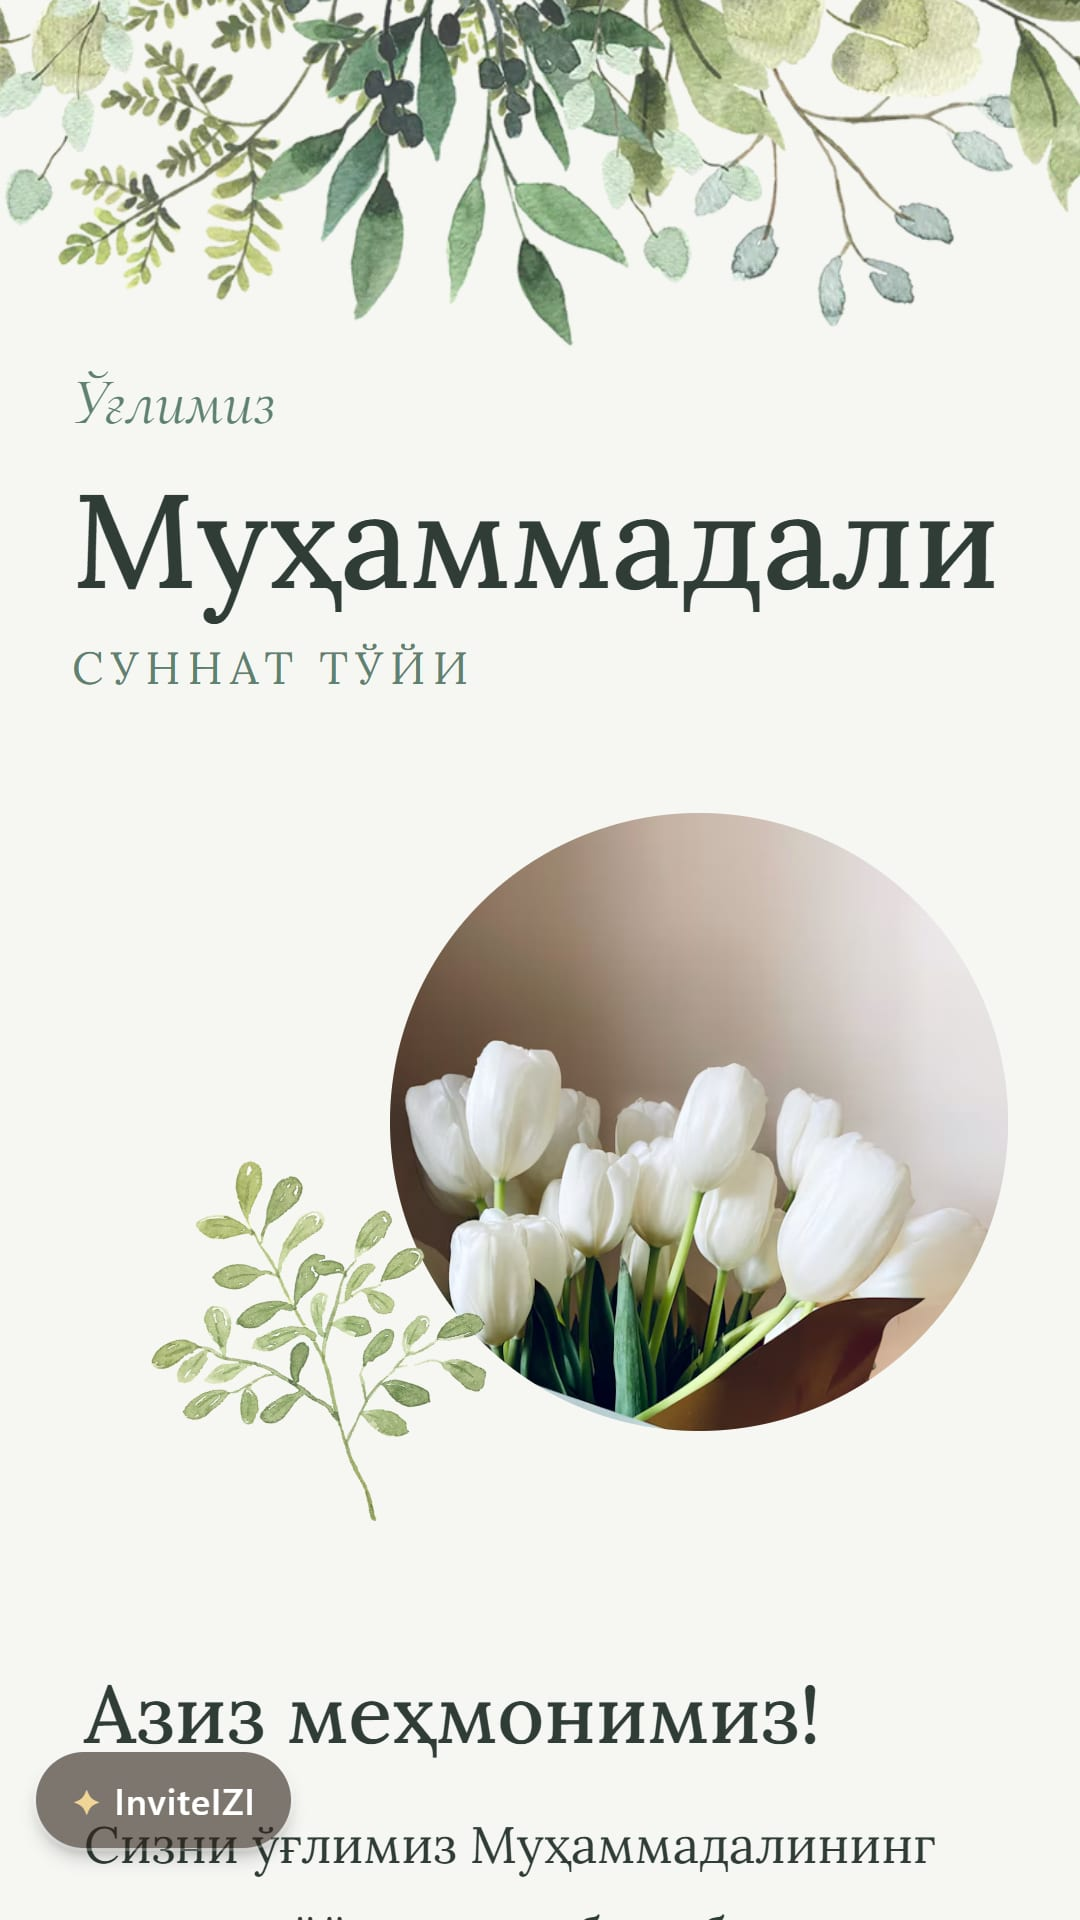
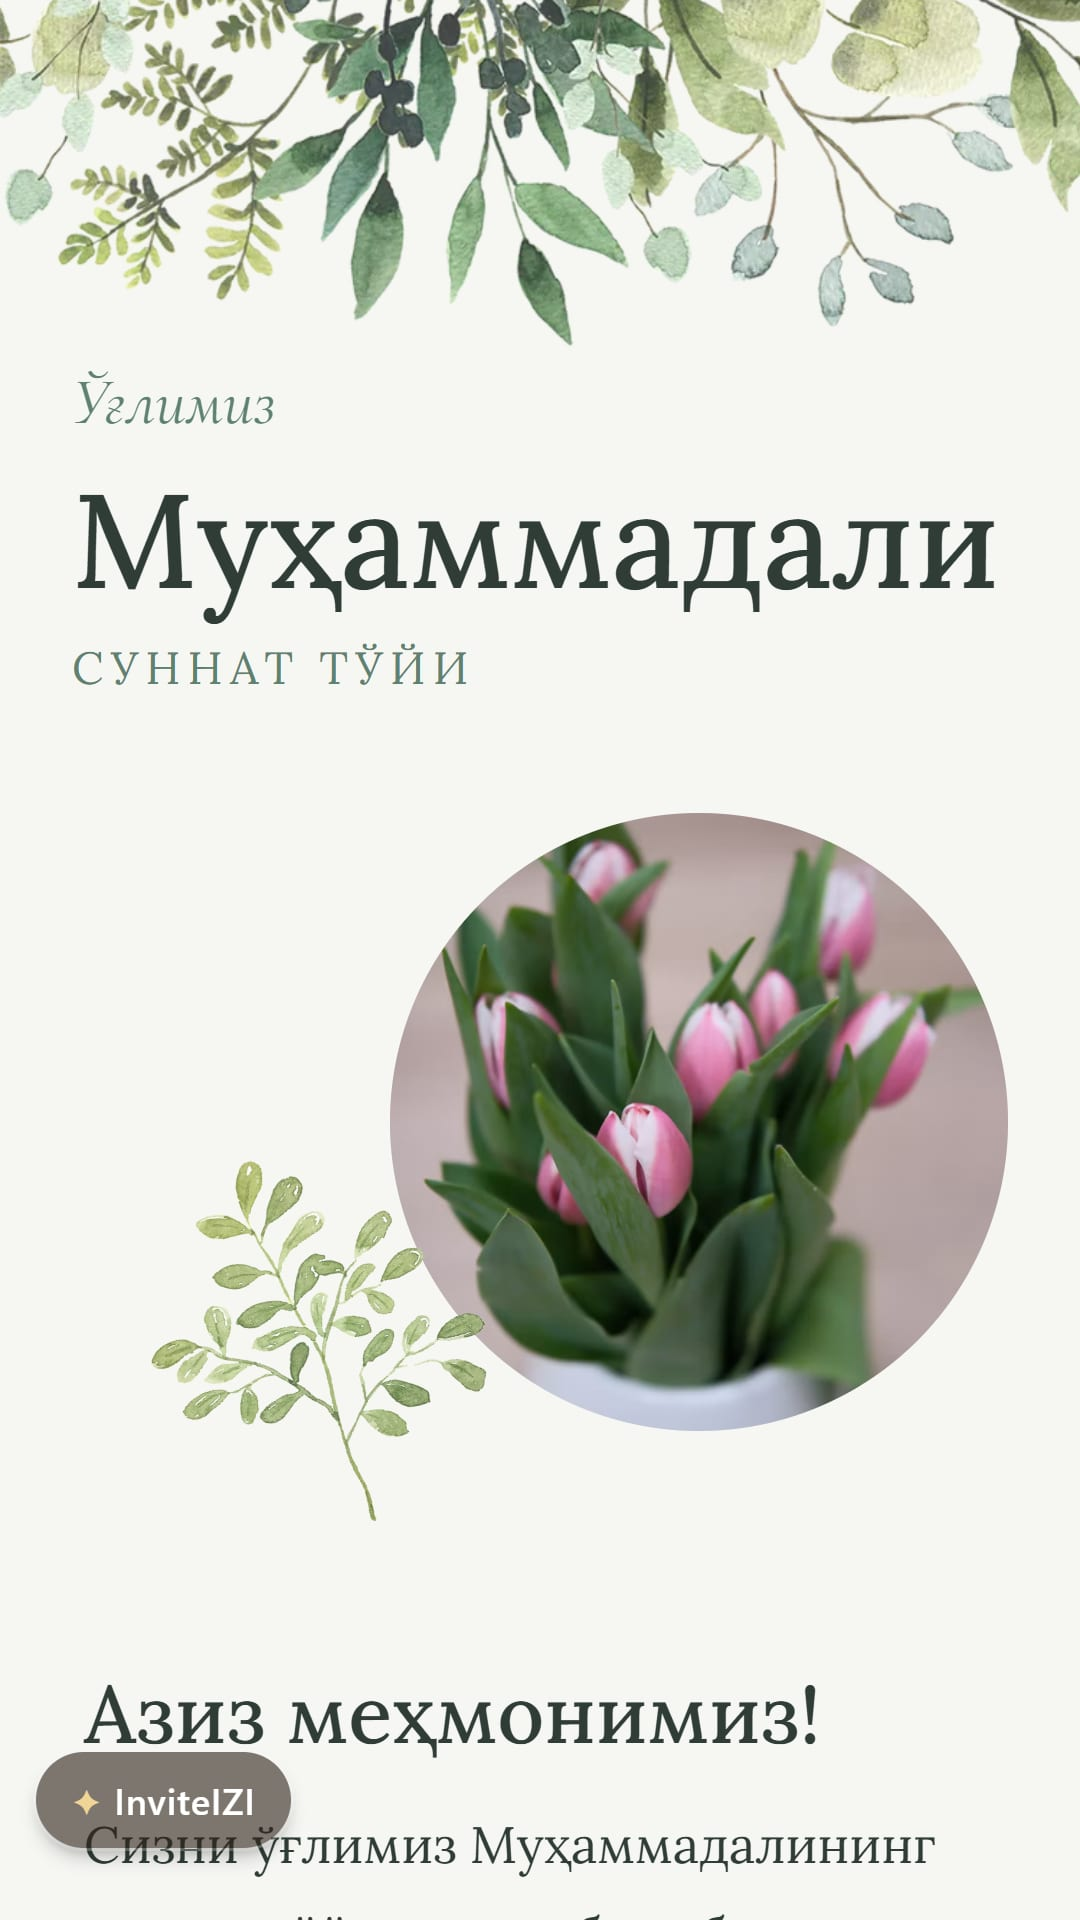
Фаза 4: ревью критика и правки пилотов, скриншоты в docs/reviews/natural-pilots

Changed region(s): [[0.3361, 0.4062, 0.9472, 0.75]]

diff --git a/templates/themes/ipak/Design.tsx b/templates/themes/ipak/Design.tsx
@@ -53,9 +53,9 @@ export default function Ipak({ data, mode }: TemplateProps) {
     { kind: "unsplash", slot: "ipak-bouquet", w: 520, h: 650 },
     { kind: "unsplash", slot: "ipak-hands", w: 400, h: 400 },
   ]);
-  const candles = stock({
+  const silk = stock({
     kind: "unsplash",
-    slot: "ipak-candles",
+    slot: "ipak-silk",
     w: 860,
     h: 640,
   });
@@ -84,7 +84,7 @@ export default function Ipak({ data, mode }: TemplateProps) {
         radius: "22px",
       }}
       credits={[
-        ...creditsOf([...photos, candles]),
+        ...creditsOf([...photos, silk]),
         localCredit("ipak-silk-video"),
       ]}
       creditClassName="text-[#3b322b]/60"
@@ -115,9 +115,11 @@ export default function Ipak({ data, mode }: TemplateProps) {
           <span ref={groom} className={s.nameLine}>
             <Words text={data.groom ?? ""} />
           </span>
-          <Script text={t.natural.and} className={s.and} />
-          <span ref={bride} className={`${s.nameLine} ${s.nameRight}`}>
-            <Words text={data.bride ?? ""} />
+          <span className={s.brideRow}>
+            <Script text={t.natural.and} className={s.and} />
+            <span ref={bride} className={s.nameLine}>
+              <Words text={data.bride ?? ""} />
+            </span>
           </span>
         </h1>
         <p className={s.occasion}>{t.occasionTitles[inv.occasion]}</p>
@@ -171,20 +173,13 @@ export default function Ipak({ data, mode }: TemplateProps) {
             <p className={s.eventTime}>{t.date.clock(e.time)}</p>
             <div className={s.eventText}>
               <h3>{e.title}</h3>
-              <p>
-                {t.weekdays[e.when.weekdayIndex]},{" "}
-                {t.date.long(e.when.day, e.when.monthIndex, e.when.year)}
-              </p>
+              <p>{t.weekdays[e.when.weekdayIndex]}</p>
+              <p>{t.date.long(e.when.day, e.when.monthIndex, e.when.year)}</p>
               <p className={s.eventVenue}>{e.venueName}</p>
             </div>
           </article>
         ))}
-        <Photo
-          src={candles.src}
-          shape="round"
-          ratio="4 / 3"
-          className={s.candles}
-        />
+        <Photo src={silk.src} shape="round" ratio="4 / 3" className={s.silk} />
       </section>
 
       <section className={s.date}>

diff --git a/templates/themes/ipak/ipak.module.css b/templates/themes/ipak/ipak.module.css
@@ -20,8 +20,9 @@
 .vertical { position: absolute; right: 14px; top: 58px; writing-mode: vertical-rl; font-family: var(--n-serif); font-size: 13px; letter-spacing: .3em; text-transform: uppercase; color: var(--n-accent); }
 .names { display: flex; flex-direction: column; font-family: var(--n-serif); font-weight: 400; text-transform: uppercase; letter-spacing: .04em; line-height: 1; }
 .nameLine { display: block; width: 100%; font-size: var(--fit, 54px); }
-.nameRight { text-align: right; }
-.and { align-self: center; font-size: 60px; color: var(--n-accent); text-transform: none; margin: 4px 0; }
+.brideRow { display: flex; align-items: baseline; gap: 12px; margin-top: 6px; padding-left: 14%; }
+.brideRow .nameLine { flex: 1; min-width: 0; }
+.and { flex: none; font-size: 50px; line-height: 1; color: var(--n-accent); text-transform: none; }
 .occasion { margin-top: 22px; font-family: var(--n-serif); font-style: italic; font-size: 20px; color: var(--n-accent); }
 
 /* ── Фото со смещением ── */
@@ -46,15 +47,15 @@
 
 /* ── События ── */
 .events { padding: 64px 0 0; }
-.event { display: grid; grid-template-columns: auto 1fr; align-items: end; gap: 16px; padding: 0 24px 40px; }
+.event { display: grid; grid-template-columns: auto 1fr; align-items: end; gap: 24px; padding: 0 24px 40px; }
 .eventAlt { grid-template-columns: 1fr auto; text-align: right; }
 .eventAlt .eventTime { order: 2; }
-.eventTime { font-family: var(--n-serif); font-size: 92px; font-weight: 300; line-height: .8; font-variant-numeric: lining-nums; letter-spacing: -.02em; }
+.eventTime { font-family: var(--n-serif); font-size: 84px; font-weight: 300; line-height: .8; font-variant-numeric: lining-nums; letter-spacing: -.02em; }
 .eventText { min-width: 0; padding-bottom: 4px; }
 .eventText h3 { font-family: var(--n-serif); font-size: 15px; letter-spacing: .2em; text-transform: uppercase; color: var(--n-accent); }
 .eventText p { margin-top: 4px; font-size: 16px; line-height: 1.45; overflow-wrap: anywhere; }
 .eventVenue { font-style: italic; }
-.candles { margin: 8px 24px 0 64px; }
+.silk { margin: 8px 24px 0 64px; }
 
 /* ── Дата и место ── */
 .date, .place { padding: 64px 24px 0; }

diff --git a/templates/themes/tong-dasturxon/Design.tsx b/templates/themes/tong-dasturxon/Design.tsx
@@ -39,13 +39,13 @@ export default function TongDasturxon({ data, mode }: TemplateProps) {
   // Плов — всегда настоящий плов (это суть наҳорги ош); фото клиента встают вместо нона и чая
   const plov = stock({
     kind: "unsplash",
-    slot: "dastur-plov",
+    slot: "dastur-plov-top",
     w: 860,
-    h: 1100,
+    h: 860,
   });
   const photos = shots(data, [
     { kind: "local", slot: "dastur-non" },
-    { kind: "unsplash", slot: "dastur-tea", w: 560, h: 700 },
+    { kind: "unsplash", slot: "dastur-tea-warm", w: 560, h: 700 },
   ]);
   const w = inv.main.when;
   const morning = inv.program[0] ?? inv.main;
@@ -85,9 +85,9 @@ export default function TongDasturxon({ data, mode }: TemplateProps) {
         <Photo
           src={plov.src}
           shape="torn"
-          ratio="4 / 5"
+          ratio="1 / 1"
           eager
-          position="50% 55%"
+          position="50% 50%"
           className={s.plov}
         />
         <div className={s.timeBlock}>
@@ -195,7 +195,6 @@ export default function TongDasturxon({ data, mode }: TemplateProps) {
           }}
         />
       </section>
-
     </InvitationShell>
   );
 }

diff --git a/templates/themes/muhr/muhr.module.css b/templates/themes/muhr/muhr.module.css
@@ -99,3 +99,13 @@
 .signLead { font-family: var(--n-serif); font-style: italic; font-size: 20px; }
 .signHosts { margin-top: 6px; font-family: var(--n-serif); font-size: 28px; font-weight: 500; text-transform: uppercase; letter-spacing: .08em; line-height: 1.15; overflow-wrap: anywhere; }
 .signScript { display: block; margin-top: 26px; line-height: 1.25; font-size: 54px; color: var(--n-accent); text-align: right; }
+
+/* Правки после ревью: монограмма — столбиком на поле у арки, не на фото */
+.heroMono { left: -27%; bottom: 6%; flex-direction: column; gap: 8px; font-size: 52px; }
+.heroMono i { width: 30px; height: 1px; }
+
+/* Бумага конверта: мягкая тень сгиба и неровный тон, без блеска */
+.pocket { background: linear-gradient(160deg, #94aabd 0%, #869db1 55%, #7c94a9 100%); }
+.flap { background: linear-gradient(180deg, #8aa1b5 0%, #7790a6 100%); filter: drop-shadow(0 4px 3px rgba(30,45,60,.28)); }
+.card { box-shadow: inset 0 0 0 1px rgba(44,59,73,.06); }
+.wax { fill: url(#muhr-wax); }

diff --git a/templates/themes/bog/Design.tsx b/templates/themes/bog/Design.tsx
@@ -39,7 +39,7 @@ export default function Bog({ data, mode }: TemplateProps) {
   const inv = useInvitation(data, mode, { melody, opening: false });
   // 1 — круг (фото мальчика или тюльпаны), 2 — белые тюльпаны в рваной рамке
   const photos = shots(data, [
-    { kind: "unsplash", slot: "bog-tulips", w: 640, h: 640 },
+    { kind: "unsplash", slot: "bog-tulips-pink", w: 640, h: 640 },
     { kind: "unsplash", slot: "bog-tulips-2", w: 860, h: 640 },
   ]);
   const extra = (data.photos ?? []).slice(2);
@@ -190,7 +190,7 @@ export default function Bog({ data, mode }: TemplateProps) {
         <Photo
           src={photos[1].src}
           client={photos[1].client}
-          shape="torn"
+          shape="round"
           ratio="4 / 3"
         />
       </section>
@@ -200,7 +200,6 @@ export default function Bog({ data, mode }: TemplateProps) {
           <Photo src={extra[0]} client shape="round" ratio="4 / 5" />
         </section>
       )}
-
     </InvitationShell>
   );
 }

diff --git a/templates/themes/muhr/Design.tsx b/templates/themes/muhr/Design.tsx
@@ -283,6 +283,14 @@ export default function Muhr({ data, mode }: TemplateProps) {
             <span className={s.flap} />
             <span className={s.seal} aria-hidden>
               <svg viewBox="0 0 100 100" className={s.wax}>
+                {/* Сургуч: толща воска темнее к краю (объём, без блика) */}
+                <defs>
+                  <radialGradient id="muhr-wax" cx="42%" cy="38%" r="65%">
+                    <stop offset="0" stopColor="#4d6a87" />
+                    <stop offset=".7" stopColor="#3b5672" />
+                    <stop offset="1" stopColor="#2c4259" />
+                  </radialGradient>
+                </defs>
                 <path d="M50 3c7 0 10 4 16 5s11 0 15 5 2 10 5 15 8 9 8 16-5 10-6 16 1 11-3 16-10 5-15 8-9 8-16 8-10-5-16-6-11 1-16-3-5-10-8-15-8-9-8-16 5-10 6-16-1-11 3-16 10-5 15-8 9-8 16-8z" />
                 <circle cx="50" cy="50" r="33" className={s.waxRing} />
               </svg>

diff --git a/templates/themes/bog/bog.module.css b/templates/themes/bog/bog.module.css
@@ -55,7 +55,7 @@
 .countToday { margin-top: 12px; font-family: var(--n-serif); font-size: 28px; }
 
 /* ── Фото ── */
-.table { padding: 64px 0 0; }
+.table { padding: 64px 48px 0 24px; }
 .extra { padding: 40px 64px 0; }
 
 /* ── Подпись ── */
@@ -63,3 +63,6 @@
 .signScript { display: block; font-size: 60px; line-height: 1.25; color: var(--n-accent); }
 .signLead { margin-top: 6px; font-size: 16px; }
 .signHosts { margin-top: 4px; font-family: var(--n-serif); font-size: 28px; font-weight: 500; line-height: 1.15; overflow-wrap: anywhere; }
+
+/* Второе место — не копия первого: прижато вправо, без заливки, только тонкая линия */
+.place > div:nth-of-type(even) .venue { margin-left: 18%; background: transparent; border: 1px solid #c4d3c8; border-radius: 4px 22px 22px 22px; text-align: right; }

diff --git a/templates/themes/tong-dasturxon/tong.module.css b/templates/themes/tong-dasturxon/tong.module.css
@@ -4,7 +4,7 @@
 /* ── Плов и время ── */
 .hero { position: relative; }
 .plov { width: 100%; }
-.timeBlock { position: relative; margin-top: -58px; padding: 0 24px; display: flex; flex-direction: column; align-items: flex-end; }
+.timeBlock { position: relative; margin-top: 18px; padding: 0 24px; display: flex; flex-direction: column; align-items: flex-end; }
 .morning { margin-top: 2px; font-size: 50px; line-height: 1.2; color: var(--n-accent); margin-right: 8px; }
 .bigTime { font-family: var(--n-serif); font-size: 128px; font-weight: 300; line-height: .82; letter-spacing: -.03em; font-variant-numeric: lining-nums; }
 

diff --git a/docs/reviews/natural-pilots/README.md b/docs/reviews/natural-pilots/README.md
@@ -1,0 +1,27 @@
+# Натуральные пилоты — ревью (фаза 4)
+
+Скриншоты 430 px: `<id>-430-0-opening` (только у Анимацияли), `-1-first`, `-2-middle`, `-3-end`.
+Пилоты: `muhr`, `ipak` (никоҳ, Анимацияли), `bog` (суннат), `tong-dasturxon` (наҳорги ош) — оба Варақланадиган.
+
+## Что нашёл критик и что сделано
+
+| Замечание | Решение |
+|---|---|
+| Тонгги дастурхон: «6:00» лежит на тёмном плове, плов — крупный план на весь экран | Время теперь под фото; плов заменён на целое блюдо сверху (квадрат, рваный край) |
+| Тонгги дастурхон: чай — серое фото со шторой | Заменено на тёплый стакан чая в солнце |
+| Боғ: белые тюльпаны дважды, «похоронное» настроение | В круге — розовые тюльпаны в белой вазе; внизу белые остались |
+| Боғ: рваный край как у Тонгги дастурхон | В Боғ — скруглённая рамка; рваный край остался только у наҳорги ош |
+| Боғ: два одинаковых блока адреса подряд | Второй адрес — справа, без заливки, тонкой линией |
+| Ипак: имена сложены так же, как в Муҳр | В Ипак оба имени слева, «ва» в строке невесты; у Муҳр — лесенка лево/центр/право |
+| Ипак: дата прижата к «18:00», «йил» один в строке | День недели и дата — отдельными строками, больше отступ |
+| Ипак: латунные подсвечники — «западный интерьер» | Заменено на фото шёлка |
+| Муҳр: монограмма наполовину на фото, плохо видна | Монограмма столбиком на поле слева от арки |
+| Муҳр: плоский конверт и печать | Тон бумаги с тенью сгиба, сургуч с объёмом (без блеска) |
+
+## Что оставлено как есть (и почему)
+
+- Календарь и тонкие цифры таймера есть на страницах — критик их не увидел, потому что они попали между кадрами.
+- «30» одно в последней строке — так выглядит ноябрь, это не ошибка вёрстки.
+- Общие элементы (плашка InviteIZI, кнопка музыки, футер) — одинаковые на всех шаблонах сайта.
+- Текст приветствия Боғ («…наҳорги ошга») собирается из примерных данных демо (первый тадбир — наҳорги ош); у клиента текст строится по его тадбирам.
+- Западные стоковые фото пары (кольца, букет): без лиц, но лучшая замена — фото самого клиента (шаг «📷 расмлар» в боте) или картинки Higgsfield (см. docs/design/higgsfield-todo.md).

diff --git a/ПРОГРЕСС.md b/ПРОГРЕСС.md
@@ -6,6 +6,8 @@
 - **Миграция `20261105120000_client_photos.sql` и новая версия edge-функции storage-gate (бакет photos, удаление) ждут «да» владельца.** До них бот работает, шаг фото показывается только у дизайнов с фото.
 - Фаза 3: 4 пилота — Муҳр (конверт с сургучом), Ипак (видео шёлка ▶, журнал), Боғ (шалфей, акварель, круг), Тонгги дастурхон (плов с рваным краем, огромное время). 360/430 px без ошибок, check-template чистый (кроме общего футера, как у всех), обложки и OG готовы, первые в каталоге.
 - **SQL `supabase/release/natural-four-templates.sql` (строки каталога 113–116) ждёт «да» владельца — до выкладки.** Тесты: SQL на PGlite, реестр, пилоты, бот.
+- Фаза 4: скриншоты в docs/reviews/natural-pilots, один агент-критик. Исправлено: плов и время в Тонгги дастурхон, повтор фото и одинаковые адреса в Боғ, раскладка имён и даты в Ипак, монограмма и конверт в Муҳр.
+- Что оставлено и почему — docs/reviews/natural-pilots/README.md. Обложки и OG пересняты.
 
 ## 01.11.2026 — этап 3.1: ответы гостей (ветка fix/rsvp-ux)
 - Причина жалобы: выбор «Ҳа» не сохранялся в базе (не было колонки), форма на настоящих заказах не появлялась. Исправлено.
